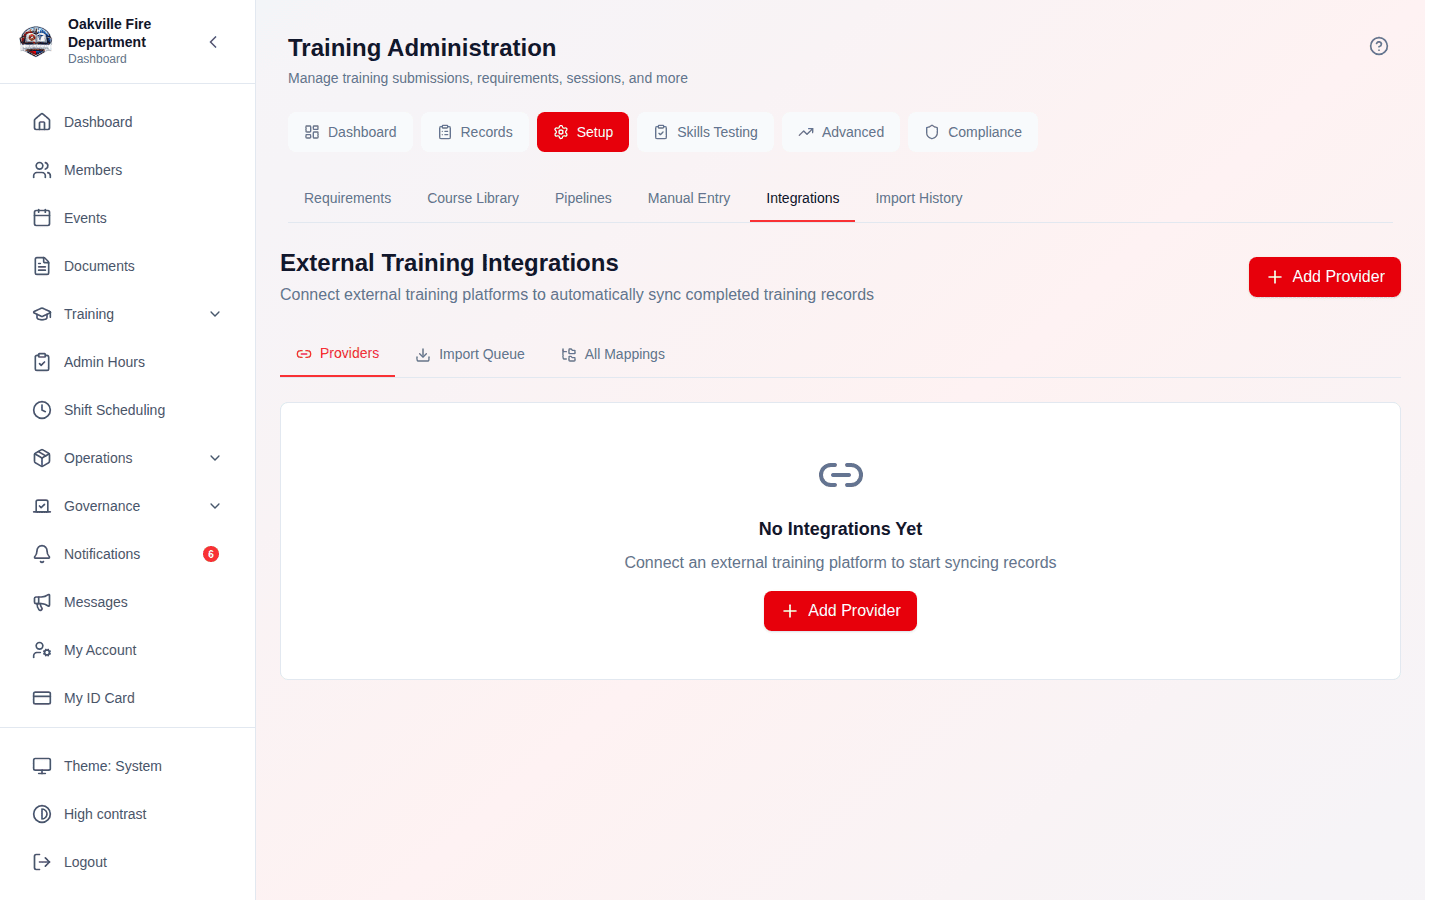
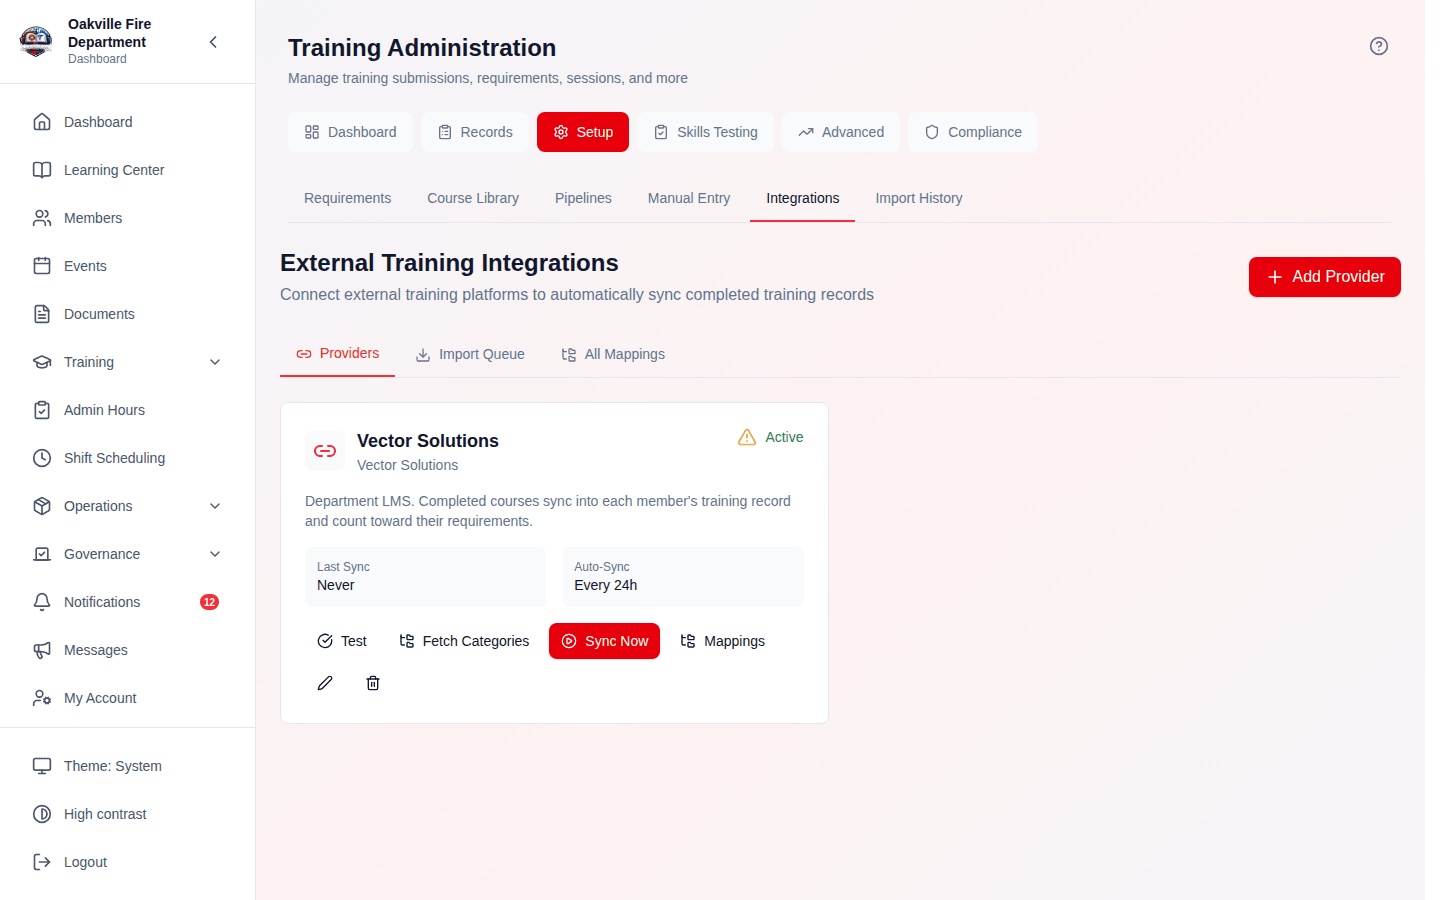
Photograph the cohort preview and the integrations page, and fix the day it offered
Two placeholders in 02-training were empty for different reasons, and both had
a real screen behind them.

**The cohort wizard's Preview step** needed a start date, not a code change.
The syllabus's day offsets (0, 3, 7, 10, 14) only collide with a weekend on
some starts, and the holiday suggestions only appear when a federal holiday
falls inside the span — so most dates render the step with neither of the two
things the placeholder is about. 5 Nov 2026 produces both, and the manifest
says why so the next person does not "tidy" it to today's date.

Photographing it found a bug. A suggested blackout is a bare "YYYY-MM-DD"
holiday, and the chip ran it through `formatDate(day, tz)` — parsed as UTC
midnight, rendered in the department's zone, so Veterans Day was offered as
**11/10** and ticking it would have blacked out the wrong day. Now
`formatCalendarDate`, with a test asserting the chip carries the date it means.

**External Training Integrations** was a seed-data gap: the demo department had
no provider at all, so the page was "No Integrations Yet" and the shot was held
back uncommitted. `seed_external_provider` configures one. Only the
configuration is seeded — `connection_verified` and `last_sync_at` are written
by a real sync against the vendor API, so the card honestly reads "Connection
not verified" and "Last Sync: Never".

That card also had its own defect: connection status was conveyed by icon
[…]

diff --git a/frontend/src/pages/ExternalTrainingPage.tsx b/frontend/src/pages/ExternalTrainingPage.tsx
@@ -26,6 +26,7 @@ import {
   Edit2,
   PlayCircle,
 } from 'lucide-react';
+import { Tooltip } from '../components/ux';
 import { externalTrainingService, trainingService } from '../services/api';
 import type {
   ExternalTrainingProvider,
@@ -466,8 +467,18 @@ const ProviderCard: React.FC<ProviderCardProps> = ({
             <p className="text-theme-text-muted text-sm">{getProviderTypeLabel()}</p>
           </div>
         </div>
+        {/* Two independent facts sit side by side here: whether the connection
+            has been proved to work, and whether the provider is switched on.
+            The first was conveyed by icon colour alone, so a sighted reader saw
+            an unexplained amber triangle next to the word "Active" and had no
+            way to tell which of the two it referred to. The label is the icon's
+            accessible name and its tooltip. */}
         <div className="flex items-center gap-2">
-          <span aria-label={getStatusLabel()}>{getStatusIcon()}</span>
+          <Tooltip content={getStatusLabel()}>
+            <span aria-label={getStatusLabel()} className="flex">
+              {getStatusIcon()}
+            </span>
+          </Tooltip>
           <span
             className={`text-sm ${provider.active ? 'text-green-700 dark:text-green-400' : 'text-theme-text-muted'}`}
           >

diff --git a/frontend/src/components/training/CohortWizard.tsx b/frontend/src/components/training/CohortWizard.tsx
@@ -21,6 +21,7 @@ import DateTimeQuarterHour from '../ux/DateTimeQuarterHour';
 import { courseCohortService, trainingService, userService } from '../../services/api';
 import { useTimezone } from '../../hooks/useTimezone';
 import {
+  formatCalendarDate,
   formatDate,
   formatForDateTimeInput,
   formatShortDateTime,
@@ -423,7 +424,12 @@ export const CohortWizard: React.FC<CohortWizardProps> = ({ onComplete, onCancel
                             : 'border-theme-surface-border bg-theme-surface-secondary text-theme-text-muted'
                         }`}
                       >
-                        {formatDate(day, tz)}
+                        {/* A suggested blackout is a bare "YYYY-MM-DD"
+                            holiday, not an instant. Run through the
+                            timezone-aware formatter it was parsed as UTC
+                            midnight and rendered a day early for anyone west
+                            of UTC — Veterans Day offered as 11/10. */}
+                        {formatCalendarDate(day)}
                       </button>
                     ))}
                   </div>

diff --git a/frontend/src/components/training/CohortWizard.test.tsx b/frontend/src/components/training/CohortWizard.test.tsx
@@ -155,6 +155,11 @@ describe('CohortWizard', () => {
     await waitFor(() => {
       expect(screen.getByText('Holidays in this range')).toBeInTheDocument();
     });
+    // The date the chip carries is the date it must offer. A suggested
+    // blackout is a bare calendar date; run through a timezone-aware
+    // formatter it renders a day early west of UTC, so Thanksgiving is
+    // offered as the 25th and ticking it blacks out the wrong day.
+    expect(screen.getByRole('button', { name: 'Nov 26, 2026' })).toBeInTheDocument();
   });
 
   it('skipping a class removes it from the generated count', async () => {

diff --git a/scripts/screenshots/seed_demo_data.py b/scripts/screenshots/seed_demo_data.py
@@ -7947,6 +7947,51 @@ class Seeder:
             )
         return {"profiles_created": created}
 
+    def seed_external_provider(self) -> dict[str, Any]:
+        """Configure the department's LMS so Integrations is not an empty state.
+
+        Only the *configuration* is seeded. `connection_verified`, `last_sync_at`
+        and the import queue are written by a real sync against a real vendor
+        API, and no create/update field sets them — so this department reads
+        "Connection not verified" and "Last Sync: Never", which is what a
+        department that has entered its credentials and not yet pressed Sync
+        actually sees.
+        """
+        existing = items(self.api.get("/training/external/providers"), "providers")
+        if existing:
+            return {"providers": existing}
+
+        # The API base URL is fetched server-side during a sync, so it goes
+        # through an SSRF guard that resolves the hostname and rejects anything
+        # private. A made-up host would fail to resolve and the create would
+        # 400; the vendor's real API host is the one value that passes.
+        categories = items(self.api.get("/training/categories"), "categories")
+        default_category = next(
+            (c for c in categories if pick(c, "name") == "Fire Suppression"),
+            categories[0] if categories else None,
+        )
+        provider = self.api.post(
+            "/training/external/providers",
+            {
+                "name": "Vector Solutions",
+                "provider_type": "vector_solutions",
+                "description": (
+                    "Department LMS. Completed courses sync into each member's "
+                    "training record and count toward their requirements."
+                ),
+                "api_base_url": "https://api.vectorsolutions.com/v1",
+                "auth_type": "api_key",
+                # Stored encrypted, and never sent anywhere: no sync is seeded.
+                "api_key": "demo-key-not-a-real-credential",
+                "auto_sync_enabled": True,
+                "sync_interval_hours": 24,
+                "default_category_id": (
+                    pick(default_category, "id") if default_category else None
+                ),
+            },
+        )
+        return {"providers": [provider] if provider else []}
+
     def seed_facility_activity(self, facilities: list[dict]) -> dict[str, list[dict]]:
         maintenance = items(self.api.get("/facilities/maintenance"), "maintenance")
         inspections = items(self.api.get("/facilities/inspections"), "inspections")
@@ -8427,6 +8472,7 @@ class Seeder:
         self.step("grants & fundraising", self.seed_grants)
         self.step("medical screening", lambda: self.seed_medical_screening(members))
         self.step("compliance profiles", self.seed_compliance_profiles)
+        self.step("external training provider", self.seed_external_provider)
         self.step("facility activity", lambda: self.seed_facility_activity(facilities))
         self.step("storefront", self.seed_storefront)
         finance = self.step("finance", self.seed_finance) or {}

diff --git a/docs/training/02-training.md b/docs/training/02-training.md
@@ -217,8 +217,7 @@ Each class shows the gap since the one before it — **"Next day"**, **"2 days l
 
 Generating creates **one training event per class**, each with a linked training session. Students see the classes on their calendar, sign in and out with the QR code as usual, and the hours flow into their program.
 
-> **Screenshot placeholder:**
-> _[Screenshot of the cohort wizard on the Preview step, showing a numbered list of computed class dates with a quarter-hour date/time picker on each row, an amber warning on one class reading "Moved from 2026-09-12 to 2026-09-14 — 2026-09-12 is a weekend", and a row of suggested holiday blackout dates above]_
+![The cohort wizard's Preview step — computed class dates, a weekend-move warning, and the holidays offered as blackout dates](./images/02-104-cohort-preview-step.png)
 
 ### Running a Cohort
 
@@ -1366,8 +1365,18 @@ Supported integrations:
 - User mapping (link external user accounts to Logbook members)
 - Sync logs and import history
 
-> **Screenshot placeholder:**
-> _[Screenshot of the External Training Integrations page showing a connected provider with sync status, last sync date, and a list of recent imports]_
+The page has three tabs. **Providers** is one card per provider, giving its
+name and platform, whether it is active, when it last synced, and its auto-sync
+interval — with **Test**, **Fetch Categories**, **Sync Now** and **Mappings**
+along the bottom. **Import Queue** and **All Mappings** are what a sync fills;
+both stay empty until one has run.
+
+The icon beside Active/Inactive is a **separate** fact: it reports whether the
+credentials have been proved to work. A newly saved provider carries an amber
+triangle reading _Connection not verified_ — it is active, it has simply never
+been tested. Press **Test** to turn it green.
+
+![The Integrations tab with a saved provider — its platform, last sync, auto-sync interval and sync actions](./images/02-42-external-integrations.png)
 
 ### Vector Solutions Enhancements _(2026-04-11)_
 
@@ -1532,17 +1541,23 @@ Navigate to **Training Admin > Advanced > Recertification** to configure recerti
 
 ![Recertification pathways with renewal type, window and grace period](./images/02-68-recertification-pathways.png)
 
-### Member View
+### Where A Member Sees Their Own Renewal Tasks
 
-Members can view their upcoming recertification tasks at **Training > My Training** in the recertification section. Each task shows:
+**Active Renewal Tasks** appears on this same Recertification section, under
+the pathway list, once **Generate Tasks** has found something for **you**. The
+list is scoped to the signed-in account, so it is your own renewals it shows,
+not the department's — an officer looking here sees their tasks and no one
+else's. Each row gives the pathway, the expiration date it is racing, and a
+progress bar.
 
-- The certification requiring renewal
-- Days until expiration
-- Required renewal steps and their completion status
-- Links to relevant courses or submission forms
-
-> **Screenshot placeholder:**
-> _[Screenshot of the member's My Training page showing the recertification section with a certification expiring in 45 days, renewal tasks with checkmarks for completed steps, and a progress indicator]_
+> **Corrected 2026-08-12.** This previously said members could see their
+> recertification tasks at **Training > My Training** in a "recertification
+> section", listing days-until-expiration, per-step checkmarks and links
+> through to courses. My Training has no such section, and no screen anywhere
+> breaks a renewal into steps. The endpoint behind the list
+> (`GET /training/recertification/tasks/me`) is read by the admin
+> Recertification section and nowhere else, so a member without
+> `training.manage` cannot reach their own renewal tasks at all.
 
 ### Edge Cases
 
@@ -1956,18 +1971,37 @@ none of it.
 
 ![The Training Category dropdown on the submission form, listing the organization's categories](./images/02-84-record-category-field.png)
 
-### Virginia NCCR Recertification Standards
+### NCCR Recertification Standards
 
-Virginia's National Continued Competency Requirements (NCCR) recertification standards have been added to the compliance tracking system. These define:
+The National Continued Competency Requirements (NCCR) model ships as **four
+importable registries** — one per NREMT provider level, so a department imports
+only what it staffs:
 
-- Required training categories for recertification
-- Hour minimums per category
-- Recertification cycle periods
+| Registry      | Covers                                |
+| ------------- | ------------------------------------- |
+| **EMR**       | Emergency Medical Responder           |
+| **EMT**       | Emergency Medical Technician          |
+| **AEMT**      | Advanced Emergency Medical Technician |
+| **Paramedic** | Paramedic                             |
 
-The compliance dashboard shows progress toward NCCR requirements with category breakdowns.
+Import them the same way as NFPA and Pro Board — from the **Requirements** tab
+of **Training > Programs**, in the **Import from Registry** panel, which offers
+each registry as its own button and then lets you tick the individual
+requirements you want. Each registry names its NCCR topic areas (Airway,
+Cardiology, Trauma, Medical, Operations) and splits its hours into the
+national, local and individual components the model defines.
 
-> **Screenshot needed:**
-> _[Screenshot of the compliance dashboard showing a Virginia NCCR progress card with category bars (Fire: 12/16 hours, EMS: 8/8 hours, Hazmat: 2/4 hours) and an overall progress percentage]_
+> **Corrected 2026-08-12.** This section previously described a
+> **Virginia**-specific NCCR standard and claimed "the compliance dashboard
+> shows progress toward NCCR requirements with category breakdowns" with a
+> per-category progress card. Neither is in the product. The registries are
+> national NREMT ones with no state variant, and nothing in the application
+> renders an NCCR card: the only per-category hours endpoint,
+> `GET /training/category-hours/{user_id}`, has no caller in the frontend at
+> all. Its screenshot placeholder has been removed rather than left standing
+> for a screen that was never built. Category minimums are tracked the ordinary
+> way — as requirements with an evaluation period — and shown on the compliance
+> matrix.
 
 ### EVOC Certification Levels
 

diff --git a/docs/training/SCREENSHOT_CURRENCY.md b/docs/training/SCREENSHOT_CURRENCY.md
@@ -80,10 +80,21 @@ this note exists so the guide does not silently endorse the number.
 
 ### Held back deliberately
 
-`02-42-external-integrations` and `02-68-vector-category-mapping` capture an
-empty "No Integrations Yet" state. The harness flags them and does not apply
-them, and they are **not committed**, so the guide keeps its unfilled
-placeholders rather than gaining a picture of nothing.
+`02-68-vector-category-mapping` still has nothing to photograph. Category
+mappings are created **only** by `POST /providers/{id}/sync-categories`, which
+fetches the live vendor catalogue over the network — there is no create
+endpoint the seeder could call, so the table stays empty however much demo data
+is added. The harness flags the shot and does not apply it, and it is **not
+committed**, so the guide keeps its unfilled placeholder rather than gaining a
+picture of an empty table under a caption describing a full one.
+
+**Resolved 2026-08-12 for `02-42-external-integrations`.** That one was empty
+for a reason the seeder _could_ fix — the demo department had no provider
+configured at all. `seed_external_provider` now saves one, and the shot is
+captured and applied. Only the configuration is seeded: `connection_verified`
+and `last_sync_at` are written by a real sync, so the card reads "Connection
+not verified" and "Last Sync: Never", which the guide's prose now explains
+rather than contradicts.
 
 ---
 

diff --git a/docs/training/SCREENSHOT_STATUS.md b/docs/training/SCREENSHOT_STATUS.md
@@ -9,13 +9,13 @@ image still matches the application is tracked by hand in
 [SCREENSHOT_CURRENCY.md](./SCREENSHOT_CURRENCY.md) — this file is
 regenerated wholesale, so that audit cannot live here.
 
-**374 of 480 placeholders filled** (106 remaining).
+**376 of 478 placeholders filled** (102 remaining).
 
 | Guide | Captured | Remaining |
 |-------|---------:|----------:|
 | [00-getting-started.md](./00-getting-started.md) | 11 | 2 |
 | [01-membership.md](./01-membership.md) | 23 | 4 |
-| [02-training.md](./02-training.md) | 66 | 10 |
+| [02-training.md](./02-training.md) | 68 | 6 |
 | [03-scheduling.md](./03-scheduling.md) | 53 | 16 |
 | [04-events-meetings.md](./04-events-meetings.md) | 28 | 8 |
 | [05-inventory.md](./05-inventory.md) | 43 | 10 |
@@ -32,5 +32,5 @@ regenerated wholesale, so that audit cannot live here.
 | [16-integrations.md](./16-integrations.md) | 4 | 8 |
 | [17-privacy-data-rights.md](./17-privacy-data-rights.md) | 2 | 0 |
 | [18-storefront.md](./18-storefront.md) | 4 | 1 |
-| **Total** | **374** | **106** |
+| **Total** | **376** | **102** |
 
